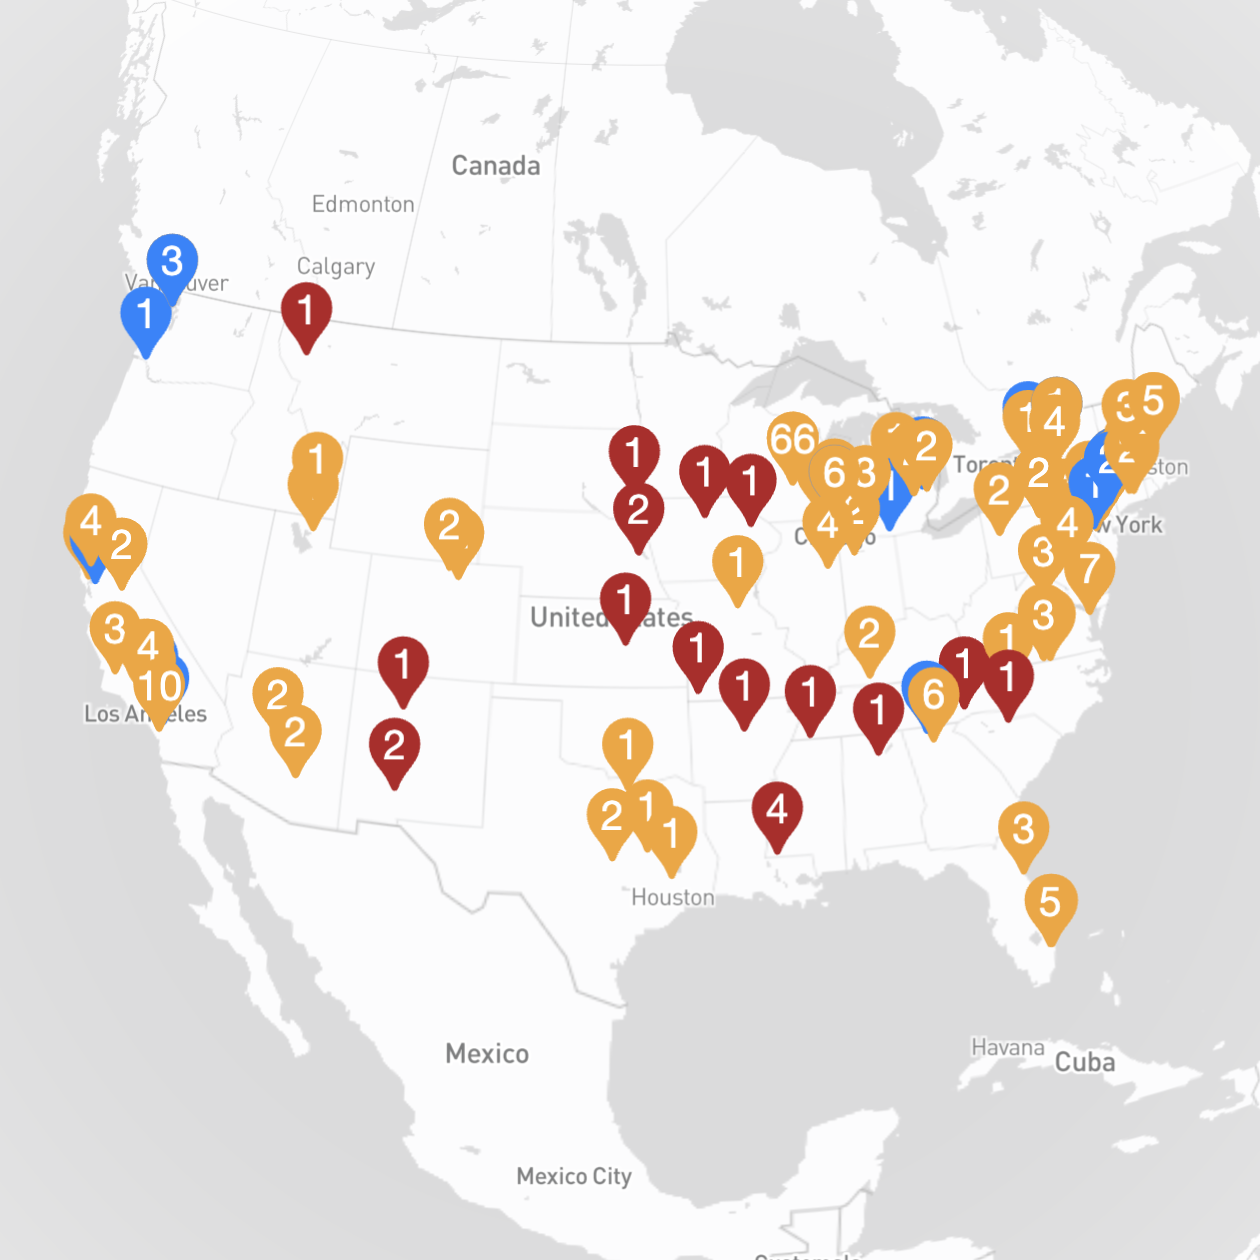
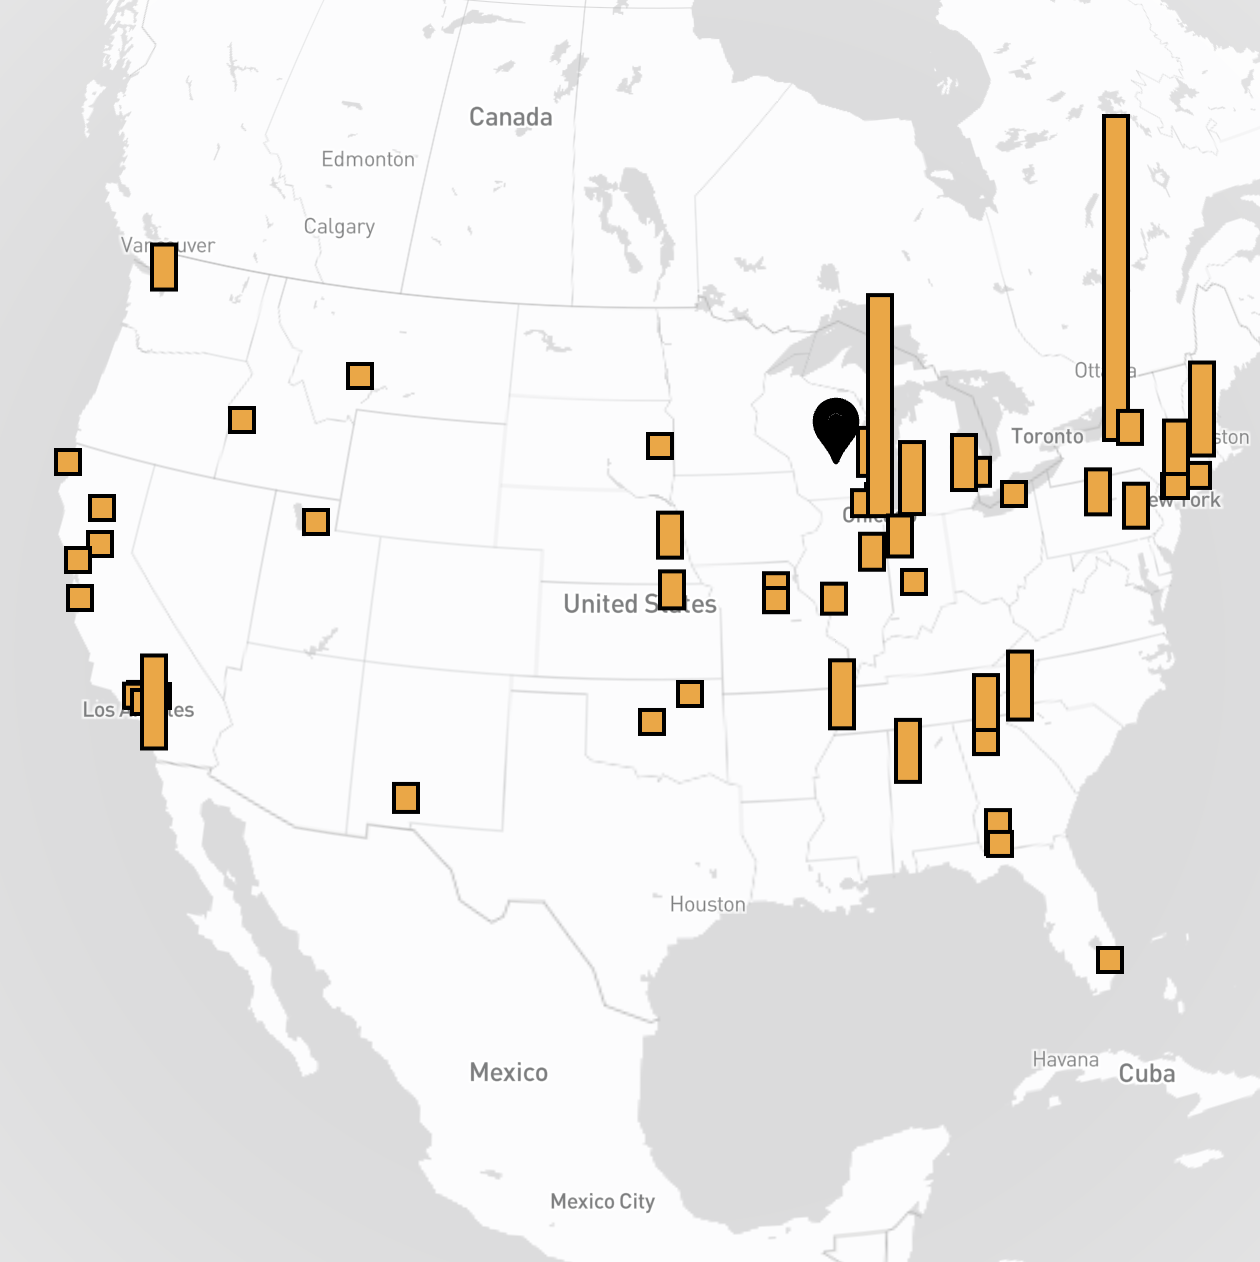
Update thumbnails

diff --git a/src/app/page.tsx b/src/app/page.tsx
@@ -40,7 +40,7 @@ export default async function Home() {
               </Typography>
             </Stack>
             <Image
-              src="/maps/images/project-map-thumbnail.png"
+              src="/maps/images/institution-map-thumbnail.png"
               alt="Institution Map Thumbnail"
               width={100}
               height={100}
